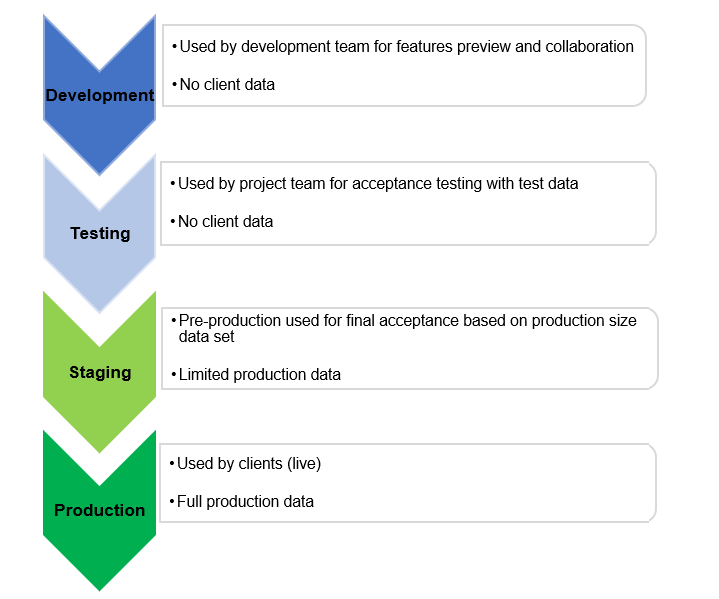
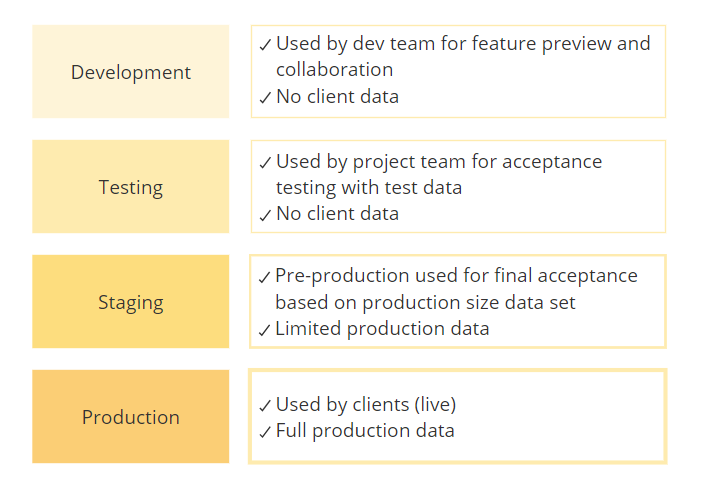
DOC-1397: Update Cloud Environment Types Doc (#25423) (#25449)
* DOC-1397: Update Could Environment Doc

* DOC-1397: Updated diagram in Environment Types Doc

diff --git a/cloud/environments.rst b/cloud/environments.rst
@@ -1,11 +1,13 @@
 .. _cloud-environments:
 
-OroCloud Environments
----------------------
+Environment Types
+-----------------
 
 Software Development Lifecycle (SDLC) involves multiple activities, such as planning, analysis, design and development, different types of testing, deployment, and maintenance. These activities usually happen in various software environments, which could be classified as **development, testing, staging, and production environments**. Depending on your Oro license, you may have access to a different number and different types of OroCloud environments. However, out-of-license environments can also be requested for an additional cost.
 
 .. image:: /cloud/img/cloud/orocloud_environments.png
+   :scale: 70
+   :align: center
    :alt: OroCloud environments
 
 Let’s consider the main differences between these environments and why you may need them all during eCommerce implementation.
@@ -36,10 +38,32 @@ Even though testing is typically performed alongside development, the need for u
 
 A testing environment – even though critical for ongoing code quality assurance – can hardly achieve the same real-life degree of the customer’s system emulation. That’s why it is a common best practice to have the application code thoroughly tested on the staging environment before moving it to production. It is considered a must for enterprise applications.
 
-OroCloud Environment Plans
-^^^^^^^^^^^^^^^^^^^^^^^^^^
+.. _cloud-environment-plans:
+
+Environment Plans
+^^^^^^^^^^^^^^^^^
 
 Not all OroCommerce Enterprise Edition licenses come with a staging and testing environment, so be sure to ask your Oro Representative if this is a requirement. However, customers can always add development and testing environments to their OroCloud environment for an additional cost. The OroCommerce staging and testing environments feature advanced monitoring, backups, redundancy, and other DevOps capabilities necessary to ensure rigorous UAT testing for a custom-tailored OroCommerce implementation.
 
-To learn about the features included in different types of OroCloud environments, please refer to :ref:`OroCloud Environment Plans <cloud-environment-plans>`.
+The following table outlines what features are included in different types of OroCloud environments.
+
+.. csv-table::
+  :header: " ", "Production", "Staging", "Testing", "Development"
+  :widths: 15,15,15,15,15
+
+  "Support","24x7","5x8","5x8","5x8"
+  "Secure Access","x","x","x","x"
+  "Base Monitoring","x","x","x","x"
+  "Logs Access","x","x","x","x"
+  "SMTP Relay","x","x","x"," "
+  "Emails sending restrictions"," ","x","x"," "
+  "Redundancy","x","x"," "," "
+  "CDN","x","x"," "," "
+  "Custom domain","x","x"," "," "
+  "Advanced Monitoring","x","x"," "," "
+  "Backups","1 year","2 weeks"," "," "
+  "Disaster Recovery","x"," "," "," "
+  "SLA","x"," "," "," "
+  "App Dev Mode"," "," ","x","x"
+  "Live data","x"," "," "," "
 

diff --git a/cloud/architecture.rst b/cloud/architecture.rst
@@ -31,38 +31,6 @@ The diagram below reflects a standard Oro application deployment in GCP via OroC
 .. image:: /cloud/img/standard_average_environment_schema.png
    :alt: Architecture of a standard Oro application deployment in GCP via OroCloud
 
-.. _cloud-environment-plans:
-
-OroCloud Environment Plans
-^^^^^^^^^^^^^^^^^^^^^^^^^^
-
-OroCloud allows you to set up multiple environment types depending on your project needs. Each type of environment is designed to best support a specific project activity, such as development, testing, user acceptance testing, and production. The number and types of available environments depend on your Oro license but you can also request more environments for an additional cost if needed.
-
-The following table outlines what features are included in different types of OroCloud environments.
-
-.. csv-table::
-  :header: " ", "Production", "Staging", "Testing", "Development"
-  :widths: 15,15,15,15,15
-
-  "Support","24x7","5x8","5x8","5x8"
-  "Secure Access","x","x","x","x"
-  "Base Monitoring","x","x","x","x"
-  "Logs Access","x","x","x","x"
-  "SMTP Relay","x","x","x"," "
-  "Emails sending restrictions"," ","x","x"," "
-  "Redundancy","x","x"," "," "
-  "CDN","x","x"," "," "
-  "Custom domain","x","x"," "," "
-  "Advanced Monitoring","x","x"," "," "
-  "Backups","1 year","2 weeks"," "," "
-  "Disaster Recovery","x"," "," "," "
-  "SLA","x"," "," "," "
-  "App Dev Mode"," "," ","x","x"
-  "Live data","x"," "," "," "
-
-.. note:: To learn more about how to use different types of cloud environments and, specifically, the differences between testing and staging environments, refer to :ref:`OroCloud Environments <cloud-environments>`.
-
-
 Redundancy
 ^^^^^^^^^^
 
